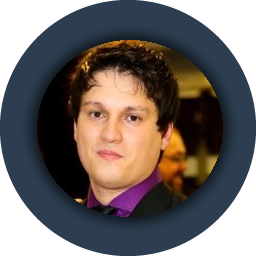
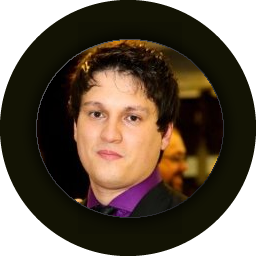
Updated

diff --git a/index.html b/index.html
@@ -79,6 +79,24 @@
                         <span class="name">Pierry Borges</span>
                         <hr class="star-light">
                         <span class="skills">Android - .NET</span>
+                        <div class="row">
+                    <div class="footer-col">
+                        <ul class="list-inline">
+                            <li>
+                                <a href="https://plus.google.com/u/0/101940230705842842939/posts" class="btn-social btn-outline"><i class="fa fa-fw fa-google-plus"></i></a>
+                            </li>
+                            <li>
+                                <a href="https://twitter.com/pierrydev" class="btn-social btn-outline"><i class="fa fa-fw fa-twitter"></i></a>
+                            </li>
+                            <li>
+                                <a href="https://br.linkedin.com/pub/pierry-borges/78/182/75b" class="btn-social btn-outline"><i class="fa fa-fw fa-linkedin"></i></a>
+                            </li>
+                            <li>
+                                <a href="https://github.com/Pierry" class="btn-social btn-outline"><i class="fa fa-github"></i></a>
+                            </li>
+                        </ul>
+                    </div>                    
+                </div>
                     </div>
                 </div>
             </div>
@@ -154,29 +172,6 @@
 
     <!-- Footer -->
     <footer class="text-center">
-        <div class="footer-above">
-            <div class="container">
-                <div class="row">
-                    <div class="footer-col">
-                        <h3>Social</h3>
-                        <ul class="list-inline">
-                            <li>
-                                <a href="https://plus.google.com/u/0/101940230705842842939/posts" class="btn-social btn-outline"><i class="fa fa-fw fa-google-plus"></i></a>
-                            </li>
-                            <li>
-                                <a href="https://twitter.com/pierrydev" class="btn-social btn-outline"><i class="fa fa-fw fa-twitter"></i></a>
-                            </li>
-                            <li>
-                                <a href="https://br.linkedin.com/pub/pierry-borges/78/182/75b" class="btn-social btn-outline"><i class="fa fa-fw fa-linkedin"></i></a>
-                            </li>
-                            <li>
-                                <a href="https://github.com/Pierry" class="btn-social btn-outline"><i class="fa fa-github"></i></a>
-                            </li>
-                        </ul>
-                    </div>                    
-                </div>
-            </div>
-        </div>
         <div class="footer-below">
             <div class="container">
                 <div class="row">

diff --git a/css/freelancer.css b/css/freelancer.css
@@ -22,7 +22,7 @@ a:focus,
 a:active,
 a.active {
     outline: 0;
-    color: #004C66;
+    color: #131304;
 }
 
 h1,
@@ -63,15 +63,15 @@ hr.star-light {
 
 hr.star-light:after {
     color: #fff;
-    background-color: #004C66;
+    background-color: #131304;
 }
 
 hr.star-primary {
-    border-color: #2c3e50;
+    border-color: #A8A8B7;
 }
 
 hr.star-primary:after {
-    color: #2c3e50;
+    color: #A8A8B7;
     background-color: #fff;
 }
 
@@ -82,7 +82,7 @@ hr.star-primary:after {
 header {
     text-align: center;
     color: #fff;
-    background: #004C66;
+    background: #131304;
 }
 
 header .container {
@@ -181,7 +181,7 @@ section h2 {
 
 section.success {
     color: #fff;
-    background: #004C66;
+    background: #131304;
 }
 
 section.success a,
@@ -190,7 +190,7 @@ section.success a:focus,
 section.success a:active,
 section.success a.active {
     outline: 0;
-    color: #2c3e50;
+    color: #A8A8B7;
 }
 
 @media(max-width:767px) {
@@ -274,7 +274,7 @@ section.success a.active {
 .btn-outline:active,
 .btn-outline.active {
     border: solid 2px #fff;
-    color: #004C66;
+    color: #131304;
     background: #fff;
 }
 
@@ -327,7 +327,7 @@ section.success a.active {
 }
 
 .floating-label-form-group-with-focus label {
-    color: #004C66;
+    color: #131304;
 }
 
 form .row:first-child .floating-label-form-group {
@@ -344,7 +344,7 @@ footer h3 {
 
 footer .footer-above {
     padding-top: 50px;
-    background-color: #2c3e50;
+    background-color: #A8A8B7;
 }
 
 footer .footer-col {
@@ -437,7 +437,7 @@ footer .footer-below {
     width: 1px;
     height: 75px;
     margin-left: 35px;
-    background-color: #2c3e50;
+    background-color: #006DD9;
     -webkit-transform: rotate(45deg);
     -ms-transform: rotate(45deg);
     transform: rotate(45deg);
@@ -447,7 +447,7 @@ footer .footer-below {
     z-index: 1052;
     width: 1px;
     height: 75px;
-    background-color: #2c3e50;
+    background-color: #A8A8B7;
     -webkit-transform: rotate(90deg);
     -ms-transform: rotate(90deg);
     transform: rotate(90deg);
